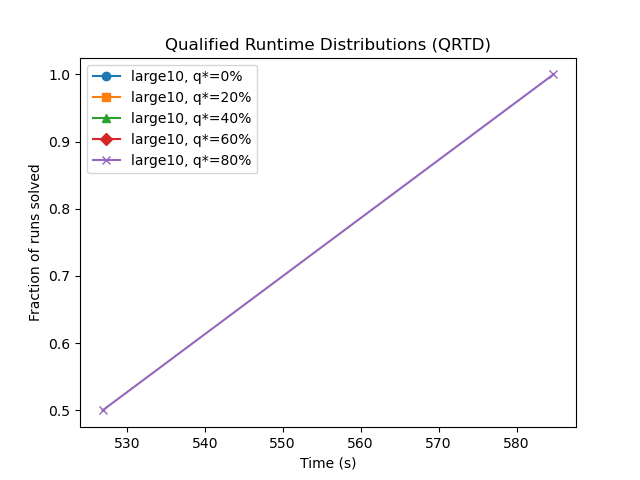
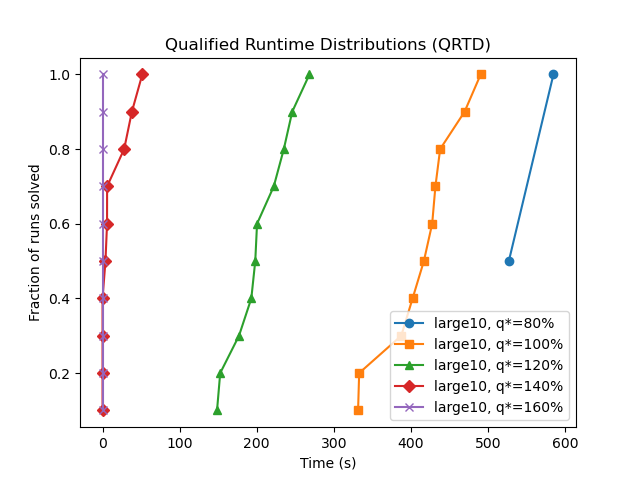
update ls2 plots

diff --git a/code/ls1_plot.py b/code/ls1_plot.py
@@ -8,7 +8,7 @@ OUTPUT_DIR = "/Users/arjuna/School/6140/project/6140-project/code/output"  # dir
 INSTANCES = ["large1", "large10"]
 TIME_LIMIT = 600
 SEEDS = list(range(1,11))
-Q_STARS = [0.0, 0.2, 0.4, 0.6, 0.8]  # relative quality thresholds
+Q_STARS = [0.8, 1, 1.2, 1.4, 1.6]  # relative quality thresholds
 TIME_POINTS = [0.1, 0.3, 1.0, 3.3, 10.0]  # times for SQD
 markers = ['o', 's', '^', 'D', 'x']
 
